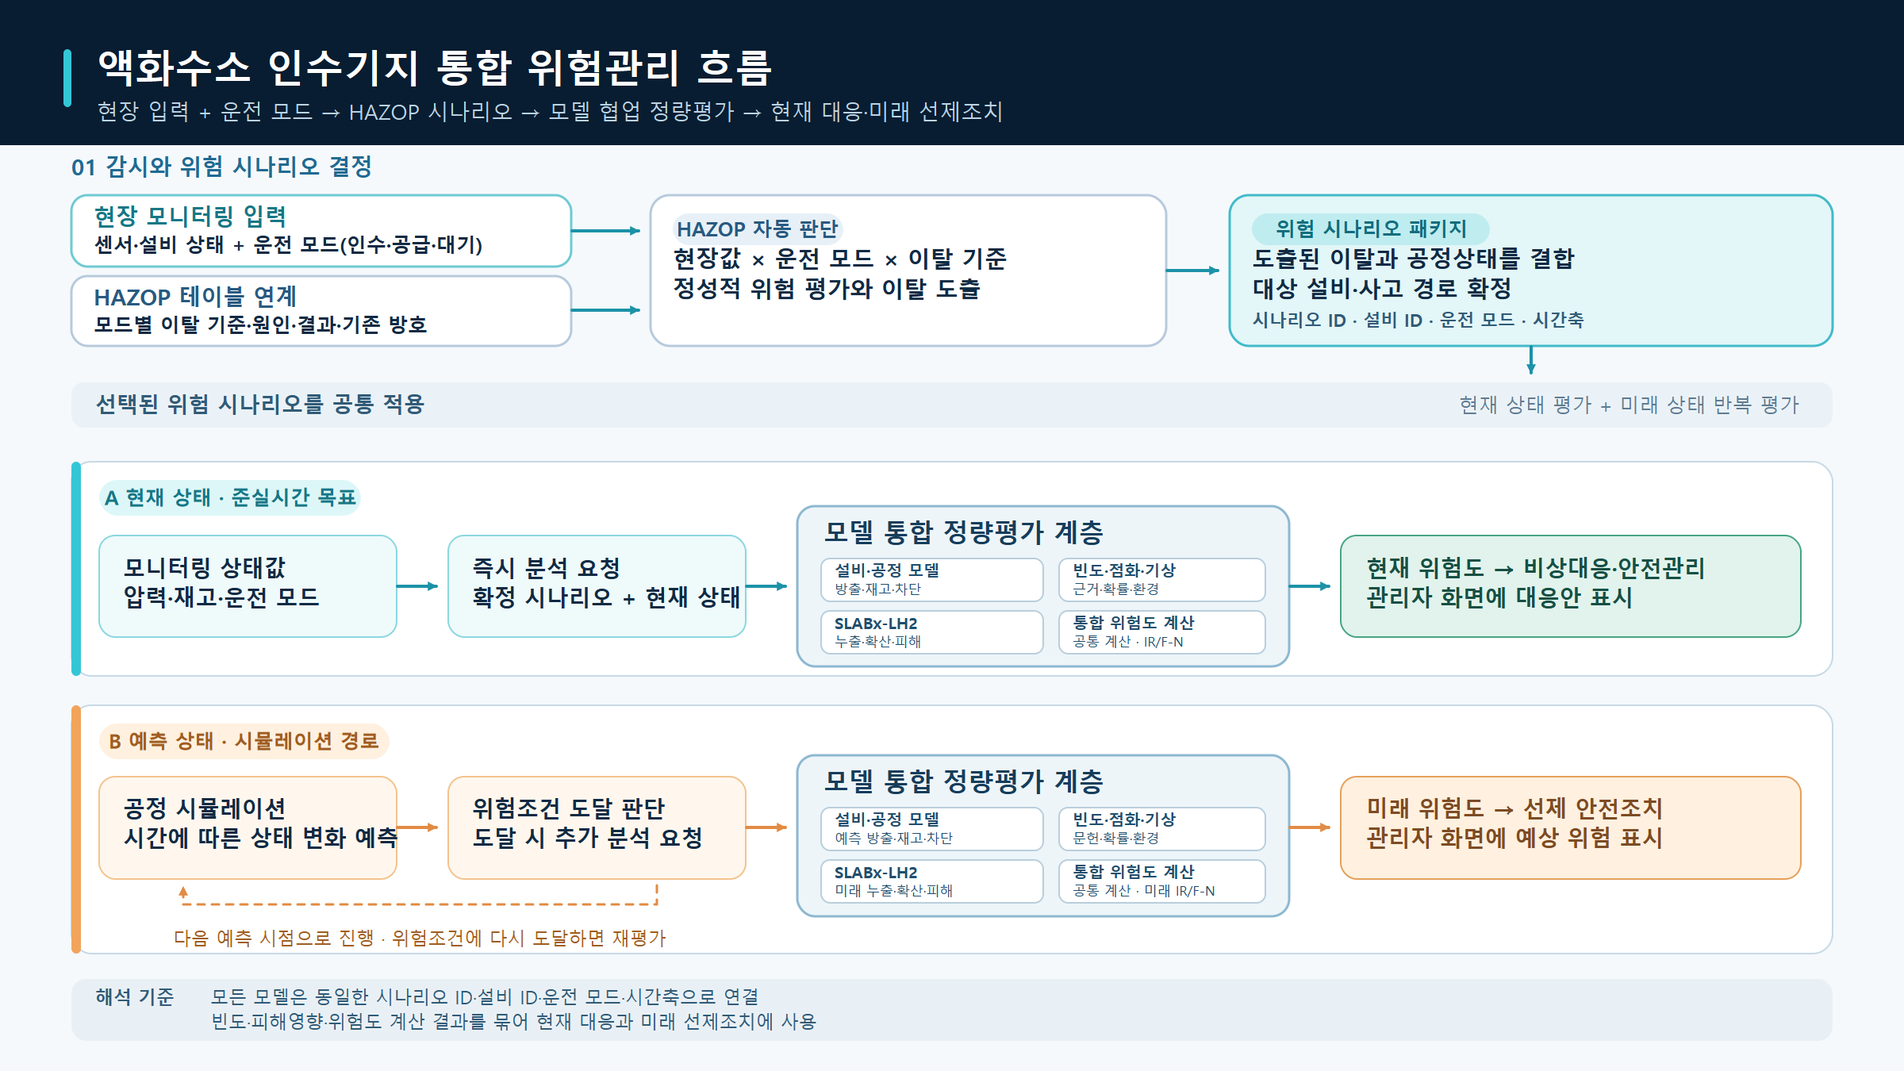
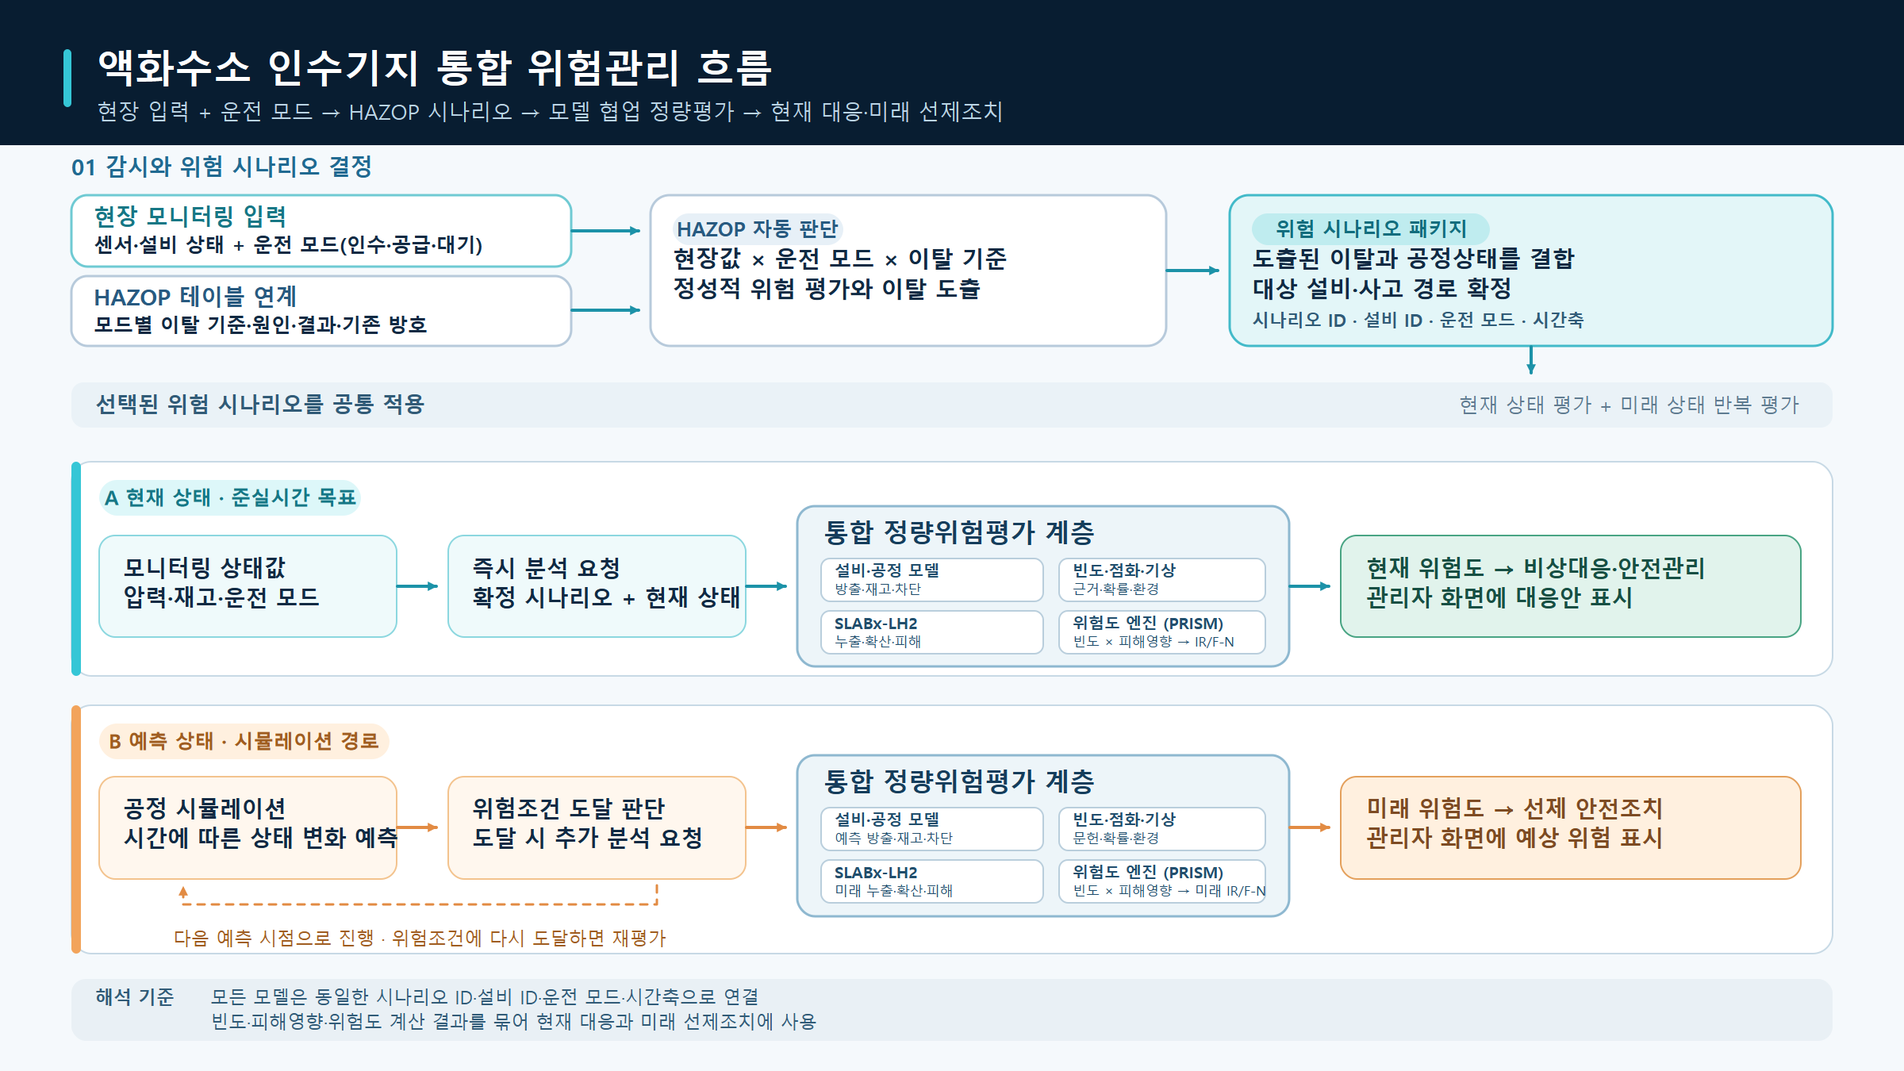
Align integrated LH2 flow and preserve HAZOP scenario identity

diff --git a/lh2-tno/src/lh2_tno/realtime_campaign.py b/lh2-tno/src/lh2_tno/realtime_campaign.py
@@ -583,6 +583,12 @@ def build_realtime_facility_campaign_result(
                     operating_mode,
                     f"scenario binding {component_id}[{binding_index}].operating_mode",
                 )
+            hazop_scenario_id = binding.get("hazop_scenario_id")
+            if hazop_scenario_id is not None:
+                hazop_scenario_id = _name(
+                    hazop_scenario_id,
+                    f"scenario binding {component_id}[{binding_index}].hazop_scenario_id",
+                )
 
             event = events_by_id.get(event_id)
             if event is None:
@@ -612,6 +618,8 @@ def build_realtime_facility_campaign_result(
                     "realtime_snapshot_digest": handoff["source_snapshot_digest"],
                     "physical_validation_claim": False,
                 }
+                if hazop_scenario_id is not None:
+                    event["hazop_scenario_id"] = hazop_scenario_id
                 events_by_id[event_id] = event
             elif (
                 event["asset_id"] != asset_id
@@ -629,6 +637,10 @@ def build_realtime_facility_campaign_result(
                 or event.get("source_sha256")
                 != (atom.get("frequency_source_digest") if atom is not None else None)
                 or event.get("operating_mode") != operating_mode
+                or (
+                    (hazop_scenario_id is not None or event.get("hazop_scenario_id") is not None)
+                    and event.get("hazop_scenario_id") != hazop_scenario_id
+                )
             ):
                 raise RealtimeCampaignBindingError(
                     f"realtime event metadata conflicts across annual scenario bindings: {event_id}"
@@ -656,6 +668,8 @@ def build_realtime_facility_campaign_result(
                 "operating_mode": operating_mode,
                 "realtime_snapshot_digest": handoff["source_snapshot_digest"],
             }
+            if hazop_scenario_id is not None:
+                case["hazop_scenario_id"] = hazop_scenario_id
             path_available = (
                 path is not None and path.get("status") == "AVAILABLE_PROVIDER_RELEASE_PATH"
             )
@@ -744,6 +758,11 @@ def build_realtime_facility_campaign_result(
                         "conditional_weight": weight,
                         "scenario_families": families,
                         "operating_mode": operating_mode,
+                        **(
+                            {"hazop_scenario_id": hazop_scenario_id}
+                            if hazop_scenario_id is not None
+                            else {}
+                        ),
                         "provider_packet_identity": copy.deepcopy(provider_identity),
                         "receptor_harm_low_high": harm,
                         "expected_deaths_basis": "population_weighted",

diff --git a/lh2-tno/src/lh2_tno/facility_evidence_request.py b/lh2-tno/src/lh2_tno/facility_evidence_request.py
@@ -270,6 +270,15 @@ def _build_case_requests(
                     current["_reasons"].append(
                         "duplicate ledger rows carry conflicting operating modes"
                     )
+            current_hazop_id = current.get("hazop_scenario_id")
+            candidate_hazop_id = raw.get("hazop_scenario_id")
+            if candidate_hazop_id not in (None, ""):
+                if current_hazop_id in (None, ""):
+                    current["hazop_scenario_id"] = candidate_hazop_id
+                elif current_hazop_id != candidate_hazop_id:
+                    current["_reasons"].append(
+                        "duplicate ledger rows carry conflicting HAZOP scenario IDs"
+                    )
             current_frequency_ports = _port_ids(current.get("frequency_port_ids"))
             candidate_frequency_ports = _port_ids(raw.get("frequency_port_ids"))
             if candidate_frequency_ports is not None:
@@ -358,6 +367,7 @@ def _build_case_requests(
             "event_id": row.get("event_id"),
             "asset_id": row.get("asset_id"),
             "component_id": identity.get("component_id", row.get("component_id")),
+            "hazop_scenario_id": row.get("hazop_scenario_id"),
             "operating_mode": row.get("operating_mode"),
             "release_branch_id": row.get("release_branch_id"),
             "annual_condition_id": row.get("annual_condition_id"),
@@ -383,6 +393,7 @@ def _build_case_requests(
             "exact_match_required": {
                 "event_id": row.get("event_id"),
                 "component_id": identity.get("component_id", row.get("component_id")),
+                "hazop_scenario_id": row.get("hazop_scenario_id"),
                 "operating_mode": row.get("operating_mode"),
                 "port_ids": requested_port_ids or [],
                 "reviewed_frequency_port_ids": reviewed_frequency_port_ids,

diff --git a/lh2-tno/tests/test_facility_evidence_request.py b/lh2-tno/tests/test_facility_evidence_request.py
@@ -299,6 +299,7 @@ def test_case_request_preserves_operating_mode_and_flags_duplicate_mode_conflict
             "asset_id": "asset-mode-duplicate",
             "release_branch_id": "release-01",
             "annual_condition_id": "D-3ms-west",
+            "hazop_scenario_id": "TK01-receiving-hole",
             "operating_mode": "receiving",
             "scenario_families": ["pipe_hole"],
             "status": "EXECUTED",
@@ -308,6 +309,7 @@ def test_case_request_preserves_operating_mode_and_flags_duplicate_mode_conflict
             "asset_id": "asset-mode-duplicate",
             "release_branch_id": "release-01",
             "annual_condition_id": "D-3ms-west",
+            "hazop_scenario_id": "TK01-supply-hole",
             "operating_mode": "supply",
             "scenario_families": ["pipe_hole"],
             "status": "EXECUTED_OPERATOR_LIMITED",
@@ -322,9 +324,12 @@ def test_case_request_preserves_operating_mode_and_flags_duplicate_mode_conflict
         }]},
     )
     request = report["case_requests"][0]
+    assert request["hazop_scenario_id"] == "TK01-receiving-hole"
+    assert request["exact_match_required"]["hazop_scenario_id"] == "TK01-receiving-hole"
     assert request["operating_mode"] == "receiving"
     assert request["exact_match_required"]["operating_mode"] == "receiving"
     assert any("conflicting operating modes" in reason for reason in request["blocking_reasons"])
+    assert any("conflicting HAZOP scenario IDs" in reason for reason in request["blocking_reasons"])
 
 
 def test_case_request_marks_missing_numerical_case_separately():

diff --git a/lh2-tno/tests/test_realtime_campaign.py b/lh2-tno/tests/test_realtime_campaign.py
@@ -238,3 +238,33 @@ def test_realtime_campaign_supports_multiple_annual_conditions_with_explicit_rev
     )
     assert ledger["population_accounting"]["referenced_condition_count"] == 2
     assert ledger["facility_total_risk_available"] is False
+
+
+def test_realtime_campaign_rejects_hazop_scenario_identity_drift(tmp_path):
+    snapshot = _snapshot(tmp_path)
+    conditions = _annual_conditions()
+    second = copy.deepcopy(conditions[0])
+    second.update(id="weather-2", annual_probability=0.4)
+    conditions[0]["annual_probability"] = 0.6
+    conditions.append(second)
+
+    current = _scenario_binding()
+    current.update(
+        consequence_basis="realtime_snapshot",
+        hazop_scenario_id="TK01-receiving",
+    )
+    reviewed = _scenario_binding(low=0.1)
+    reviewed.update(
+        annual_condition_id="weather-2",
+        consequence_basis="reviewed_annual_condition",
+        consequence_provenance="reviewed consequence fixture",
+        observed_harm_low_high={"worker-01": [0.07, 0.14]},
+        hazop_scenario_id="TK01-supply",
+    )
+    with pytest.raises(RealtimeCampaignBindingError, match="metadata conflicts"):
+        build_realtime_facility_campaign_result(
+            snapshot,
+            annual_conditions=conditions,
+            scenario_bindings=[current, reviewed],
+            expected_component_ids=("storage-tank-01",),
+        )

diff --git a/lh2-tno/tests/test_hazop_campaign.py b/lh2-tno/tests/test_hazop_campaign.py
@@ -187,6 +187,12 @@ def test_hazop_runtime_can_enter_existing_facility_campaign_contract():
     assert result["campaign"]["provider_packet_promoted"] is False
     assert result["snapshot"]["components"]["TK-01"]["selected_operating_mode"] == "receiving"
     assert result["campaign"]["cases"][0]["operating_mode"] == "receiving"
+    assert result["campaign"]["cases"][0]["hazop_scenario_id"] == "TK01-high-pressure-receiving"
+    assert result["campaign"]["events"][0]["hazop_scenario_id"] == "TK01-high-pressure-receiving"
+    assert all(
+        atom["hazop_scenario_id"] == "TK01-high-pressure-receiving"
+        for atom in result["campaign"]["risk_atoms"]
+    )
     assert all(atom["operating_mode"] == "receiving" for atom in result["campaign"]["risk_atoms"])
     assert result["facility_ledger"]["conditional_diagnostic_facility_risk_available"] is True
     assert result["facility_ledger"]["facility_total_risk_available"] is False

diff --git a/lh2-tno/docs/PRISM_HAZOP_운전모드_시나리오_연결.md b/lh2-tno/docs/PRISM_HAZOP_운전모드_시나리오_연결.md
@@ -101,7 +101,7 @@ ledger = run_hazop_integrated_risk(
 
 HAZOP 결과를 이 기존 시설 원장으로 넘겨야 할 때는 `build_hazop_facility_campaign_result(...)`를 사용한다. 이 handoff는 설비마다 정확히 하나의 `CONSEQUENCE_EVALUATED` branch, provider 방출 종료·재고 경계, 현재 기상 IR, 점화 branch를 요구한다. `scenario_bindings`에는 반드시 `hazop_scenario_id`를 넣어야 하며, 선택된 운전 모드 시나리오 ID와 다르면 캠페인을 만들지 않는다. 연간 기상·인구·차단 branch별 피해는 호출자가 명시적으로 공급하고, 누락된 branch나 빈도는 0으로 채우지 않는다. 여러 HAZOP branch가 동시에 활성화된 경우에는 이 handoff가 보류되며, 먼저 branch별 사건 빈도와 release/isolation partition을 별도로 닫아야 한다. 성공하면 `campaign`와 함께 기존 `merge_facility_campaign_results(...)`가 계산한 `facility_ledger`도 반환한다. 이 ledger는 설비별 risk atom을 시설 조건부 IR/F-N으로 합산하되, 결과 상태는 `HAZOP_CAMPAIGN_BUILT_OPERATOR_LIMITED`이고 qualified provider, 독립 물리 검증, 전체 사고범위가 닫히기 전에는 시설 QRA 승격이 계속 `false`다.
 
-실시간 운전 모드의 연결은 이 handoff에서 끝나지 않는다. `run_hazop_facility_runtime(...)`이 선택한 mode는 campaign binding의 `operating_mode`와 정확히 일치해야 하며, 일치한 값은 campaign event·case·risk atom 및 `facility_evidence_request`의 provider 요청과 `exact_match_required.operating_mode`에 그대로 보존된다. 같은 event/condition/branch가 여러 원장 행에 나타날 때 mode가 다르면 첫 값을 임의로 덮어쓰지 않고 `duplicate ledger rows carry conflicting operating modes` 차단 사유를 남긴다. 이 추적은 scenario identity를 보존하기 위한 것으로, 빈도 추정이나 누출·피해 계산을 새로 만들지 않는다.
+실시간 운전 모드의 연결은 이 handoff에서 끝나지 않는다. `run_hazop_facility_runtime(...)`이 선택한 mode는 campaign binding의 `operating_mode`와 정확히 일치해야 하며, 일치한 값은 campaign event·case·risk atom 및 `facility_evidence_request`의 provider 요청과 `exact_match_required.operating_mode`에 그대로 보존된다. HAZOP handoff가 제공한 `hazop_scenario_id`도 event·case·risk atom·provider 요청·`exact_match_required`에 함께 전달되어, 같은 운전 모드라도 다른 HAZOP 행이 섞이지 않게 한다. 같은 event/condition/branch가 여러 원장 행에 나타날 때 mode 또는 HAZOP scenario ID가 다르면 첫 값을 임의로 덮어쓰지 않고 명시적인 충돌 차단 사유를 남긴다. 이 추적은 scenario identity를 보존하기 위한 것으로, 빈도 추정이나 누출·피해 계산을 새로 만들지 않는다.
 
 시설 원장으로 병합된 뒤에도 mode를 잃지 않는다. `scenario_branch_accounting`의 `annual_conditions`, `release_branches`, `ignition_branches` 각 행에 `operating_modes` 목록을 보존하고, `component_contributions`, `component_coverage`, 설비 위험순위에도 같은 목록을 남긴다. 따라서 같은 방출·점화 branch가 `receiving`과 `supply`에서 모두 발생했는지, 어느 설비가 어떤 mode에 연결됐는지 확인할 수 있다. 목록은 위험 원자의 mode를 정렬해 보여주는 추적용 메타데이터이며, 조건부 빈도를 합산하거나 mode별 빈도를 추정하지 않는다. mode가 없는 legacy risk atom은 빈 목록으로 남아 기존 입력을 임의로 보완하지 않는다.
 
@@ -179,6 +179,6 @@ python scripts/evaluate_hazop_operating_mode.py `
 
 이 모듈은 설비-neutral HAZOP 판단과 scenario dispatch boundary를 닫는다. 사고 family catalog와 provider packet catalog에 없는 사건은 선택하지 않으며, HAZOP 이탈이 있어도 빈도와 피해 결과를 자동으로 만들지 않는다.
 
-현재 HAZOP·runtime mode·forecast 연결 집중 검사와 현재·예측 통합 오케스트레이터를 포함한 전체 패키지 검사는 **1052 passed**이다. 예제 실행은 `receiving` 모드의 고압 이탈 1건을 선택했으며, 방출 packet 0건·빈도추정 false·시설 QRA false를 기록했다. 별도 통합검사는 provider liquid packet이 기존 SLABx-LH2 consequence monitor까지 전달되는 경로, 두 개의 활성 HAZOP branch를 독립적으로 dispatch하는 경로, 명시적 branch 확률·분할 합계로 여러 branch를 시설 원장에 연결하는 경로, 예측 공정상태가 위험조건에 처음 도달한 시점의 정량평가 trigger와 기존 runtime consequence gate 재사용 경로, 조건 해제 경로, 여러 설비 원장 조정 경로, HAZOP branch에서 연간 조건·점화·인구·IR/F-N 원장으로 넘어가는 명시적 handoff, 운전 모드가 campaign·provider evidence request·시설 branch accounting·consequence request까지 보존되는 경로와 중복 mode 충돌 차단을 실행했다. `run_hazop_integrated_risk()` 회귀검사는 현재·예측 결과의 공통 설비·운전 모드·scenario identity를 묶고, 예측 정량평가가 보류되면 통합 상태도 `INTEGRATED_DIAGNOSTIC_PARTIAL`로 남기는지 확인한다. 실제 custom HAZOP tag를 관측 runtime frame으로 만들고 현재·예측 path에 넘기는 end-to-end 회귀검사도 포함한다. 선택형 facility campaign evaluator와 `build_hazop_facility_campaign_evaluator()` factory가 기존 연간 조건·시설 ledger handoff를 붙일 때 unsafe promotion claim을 보류하는 회귀검사도 포함한다. `build_ijhe_completion_audit(..., hazop_integrated_risk=...)` 검사는 이 통합 원장의 설비 범위·scoped scenario key·호출 처리시간과 시설 campaign 정책, 빈도·시설 QRA 승격 차단 플래그를 다시 검증한다. 추가로 사고 export 요청의 명시적 `isolation_time_s`·`post_isolation_observation_s`가 provider로 전달되고 결과 `provider_meta`에서 echo되는지 검사한다. 실제 provider가 연결된 경우에도 HAZOP family와 packet의 source operator·종료 근거가 맞을 때만 기존 SLABx-LH2 consequence monitor로 전달된다.
+현재 HAZOP·runtime mode·forecast 연결 집중 검사와 현재·예측 통합 오케스트레이터를 포함한 전체 패키지 검사는 **1053 passed**이다. 예제 실행은 `receiving` 모드의 고압 이탈 1건을 선택했으며, 방출 packet 0건·빈도추정 false·시설 QRA false를 기록했다. 별도 통합검사는 provider liquid packet이 기존 SLABx-LH2 consequence monitor까지 전달되는 경로, 두 개의 활성 HAZOP branch를 독립적으로 dispatch하는 경로, 명시적 branch 확률·분할 합계로 여러 branch를 시설 원장에 연결하는 경로, 예측 공정상태가 위험조건에 처음 도달한 시점의 정량평가 trigger와 기존 runtime consequence gate 재사용 경로, 조건 해제 경로, 여러 설비 원장 조정 경로, HAZOP branch에서 연간 조건·점화·인구·IR/F-N 원장으로 넘어가는 명시적 handoff, 운전 모드와 HAZOP scenario ID가 campaign·provider evidence request·시설 branch accounting·consequence request까지 보존되는 경로와 중복 identity 충돌 차단을 실행했다. `run_hazop_integrated_risk()` 회귀검사는 현재·예측 결과의 공통 설비·운전 모드·scenario identity를 묶고, 예측 정량평가가 보류되면 통합 상태도 `INTEGRATED_DIAGNOSTIC_PARTIAL`로 남기는지 확인한다. 실제 custom HAZOP tag를 관측 runtime frame으로 만들고 현재·예측 path에 넘기는 end-to-end 회귀검사도 포함한다. 선택형 facility campaign evaluator와 `build_hazop_facility_campaign_evaluator()` factory가 기존 연간 조건·시설 ledger handoff를 붙일 때 unsafe promotion claim을 보류하는 회귀검사도 포함한다. `build_ijhe_completion_audit(..., hazop_integrated_risk=...)` 검사는 이 통합 원장의 설비 범위·scoped scenario key·호출 처리시간과 시설 campaign 정책, 빈도·시설 QRA 승격 차단 플래그를 다시 검증한다. 추가로 사고 export 요청의 명시적 `isolation_time_s`·`post_isolation_observation_s`가 provider로 전달되고 결과 `provider_meta`에서 echo되는지 검사한다. 실제 provider가 연결된 경우에도 HAZOP family와 packet의 source operator·종료 근거가 맞을 때만 기존 SLABx-LH2 consequence monitor로 전달된다.
 
 남은 엄격 문턱은 실제 설비별 HAZOP·P&ID identity, provider의 차단·재고·종료 이력, 문헌 빈도 event binding, SLABx-LH2 독립 비교, 시설 전체 사고 family coverage와 IR/F-N 승격이다. 현재 scope matrix가 수치적으로 계산된 가족과 qualification-only gap을 구분해 기록하므로, 진단 계산이 존재한다는 이유로 미계산 사고나 자격화된 위험으로 표시하지 않는다. 현재 검사센터 자료는 정상 상태 신호의 후보 입력으로만 취급한다.

diff --git a/lh2-tno/README.md b/lh2-tno/README.md
@@ -20,7 +20,7 @@
 
 이 외부 artifact intake는 IJHE 목표 원장에도 [`ijhe_objective_coverage_audit_full_evidence_with_external_release_intake.json`](results/20261108/ijhe_objective_coverage_audit_full_evidence_with_external_release_intake.json)로 연결했습니다. 원장은 30개 요구사항을 조건부 chain·엄격한 승격 gate·진단 inventory로 나누고 최신 44개 case 완료감사의 구조적 작업목록·방출 trace·빈도 포트·차단 이유까지 대조합니다. 외부 파일 집계가 맞아도 핵심 상태는 `CONDITIONAL_DIAGNOSTIC_COMPLETE_STRICT_GATES_OPEN`으로 유지합니다. 따라서 검색 범위가 넓어져도 실제 provider packet, 독립 물리검증, 완전 사고범위, 시설 전체 IR/F-N이 자동으로 완료되지 않습니다.
 
-**비동기 상태 평가 (개발 소스):** `AsyncRuntimeConsequenceMonitor`로 선택된 설비·시나리오의 상태를 접수하고, 기존 provider 및 피해 계산을 background worker에서 실행할 수 있습니다. 대기 상태는 최신 한 건으로 제한하고, 교체·만료·실패를 명시하며 이전 결과를 최신 결과로 대체하지 않습니다. 단일 모니터의 deadline에는 이제 정규화와 설비 방출 계산 시간도 포함합니다. 전체 검사 **1052 passed**, 실제 새 피해 계산 3회와 비동기 접수·조회 진단을 확인했습니다. 원래 provider packet을 재생한 성능 측정이므로 새 설비 solver를 포함한 1 Hz 보장은 아닙니다. [사용방법·처리시간·적용 경계](docs/PRISM_비동기_상태평가.md).
+**비동기 상태 평가 (개발 소스):** `AsyncRuntimeConsequenceMonitor`로 선택된 설비·시나리오의 상태를 접수하고, 기존 provider 및 피해 계산을 background worker에서 실행할 수 있습니다. 대기 상태는 최신 한 건으로 제한하고, 교체·만료·실패를 명시하며 이전 결과를 최신 결과로 대체하지 않습니다. 단일 모니터의 deadline에는 이제 정규화와 설비 방출 계산 시간도 포함합니다. 전체 검사 **1053 passed**, 실제 새 피해 계산 3회와 비동기 접수·조회 진단을 확인했습니다. 원래 provider packet을 재생한 성능 측정이므로 새 설비 solver를 포함한 1 Hz 보장은 아닙니다. [사용방법·처리시간·적용 경계](docs/PRISM_비동기_상태평가.md).
 
 **현재 권위 기준점 (state-bound union):** `results/20261031/native_full_scope_union_pipefix_state_bound/ijhe_completion_audit.json`은
 34개 사건·44개 case·176개 risk atom의 옥외 진단 범위를 보존하고, 상태→방출 연결은
